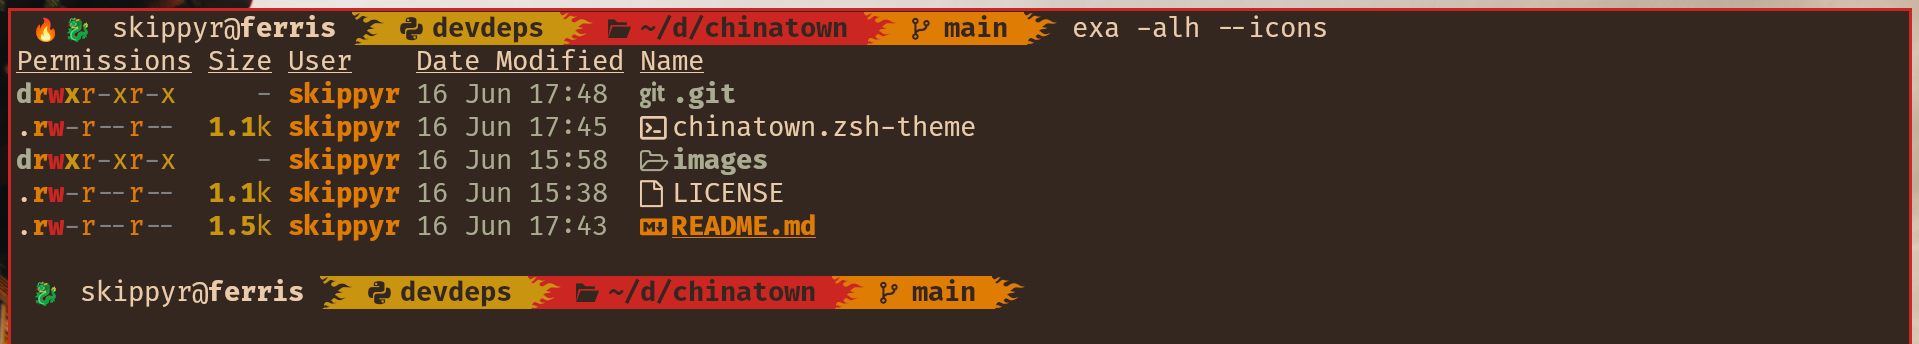
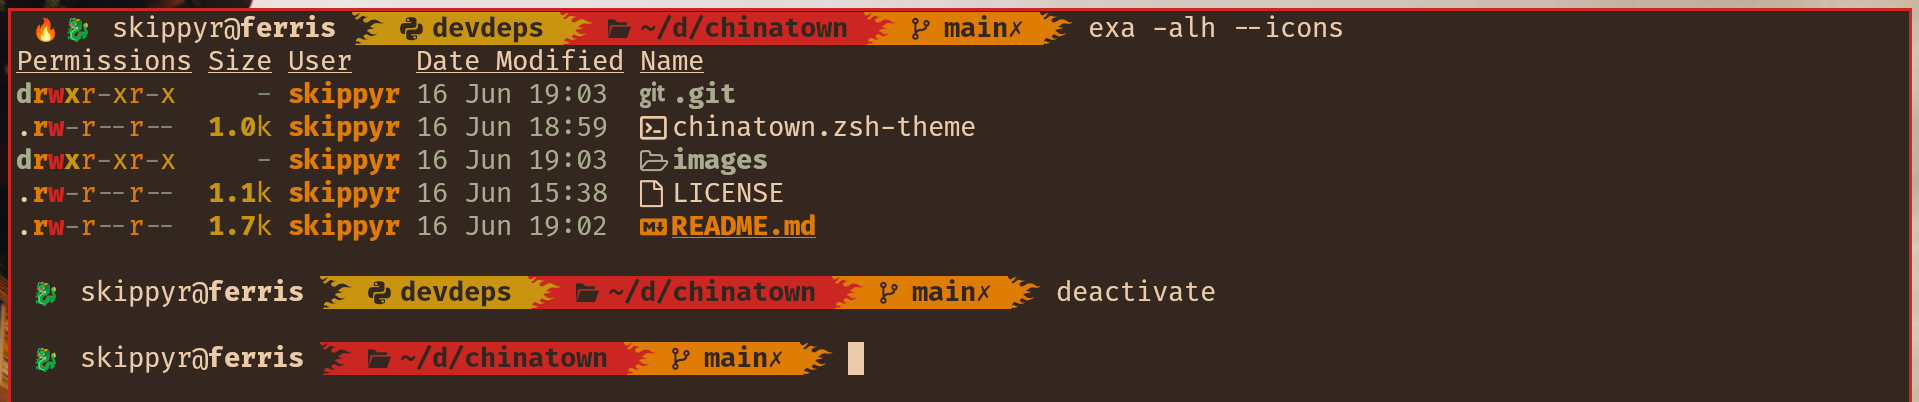
refactor: reduce conditionals

Changed region(s): [[0.0, 0.0, 1.0, 1.0], [0.0307, 0.5523, 0.0922, 0.5814]]

diff --git a/README.md b/README.md
@@ -9,16 +9,15 @@ In the preview, the theme was used in the [Kitty terminal emulator](https://gith
 
 It shows:
 
-* a flame if the last command failed.
-* user and hostname.
-* sourced virtual environment.
-* current directory abbreviated like the Fish shell does.
-* git branch.
-* a decorator if there are changes in git branch.
+* if your last command has failed.
+* your user and hostname.
+* virtual environment that you have sourced.
+* your current directory abbreviated.
+* if inside a repository, the branch and if it has changes to commit.
 
 ## Installation
 
-* install `git` and a font patched by the [Nerd Fonts project](https://github.com/ryanoasis/nerd-fonts).
+* install `git` and a font patched by the [Nerd Fonts project](https://github.com/ryanoasis/nerd-fonts). You also need an emojis font, like the [Noto Sans Emojis](https://fonts.google.com/noto/specimen/Noto+Emoji), however you probably already have one installed.
 * clone this repository.
 
 ```bash
